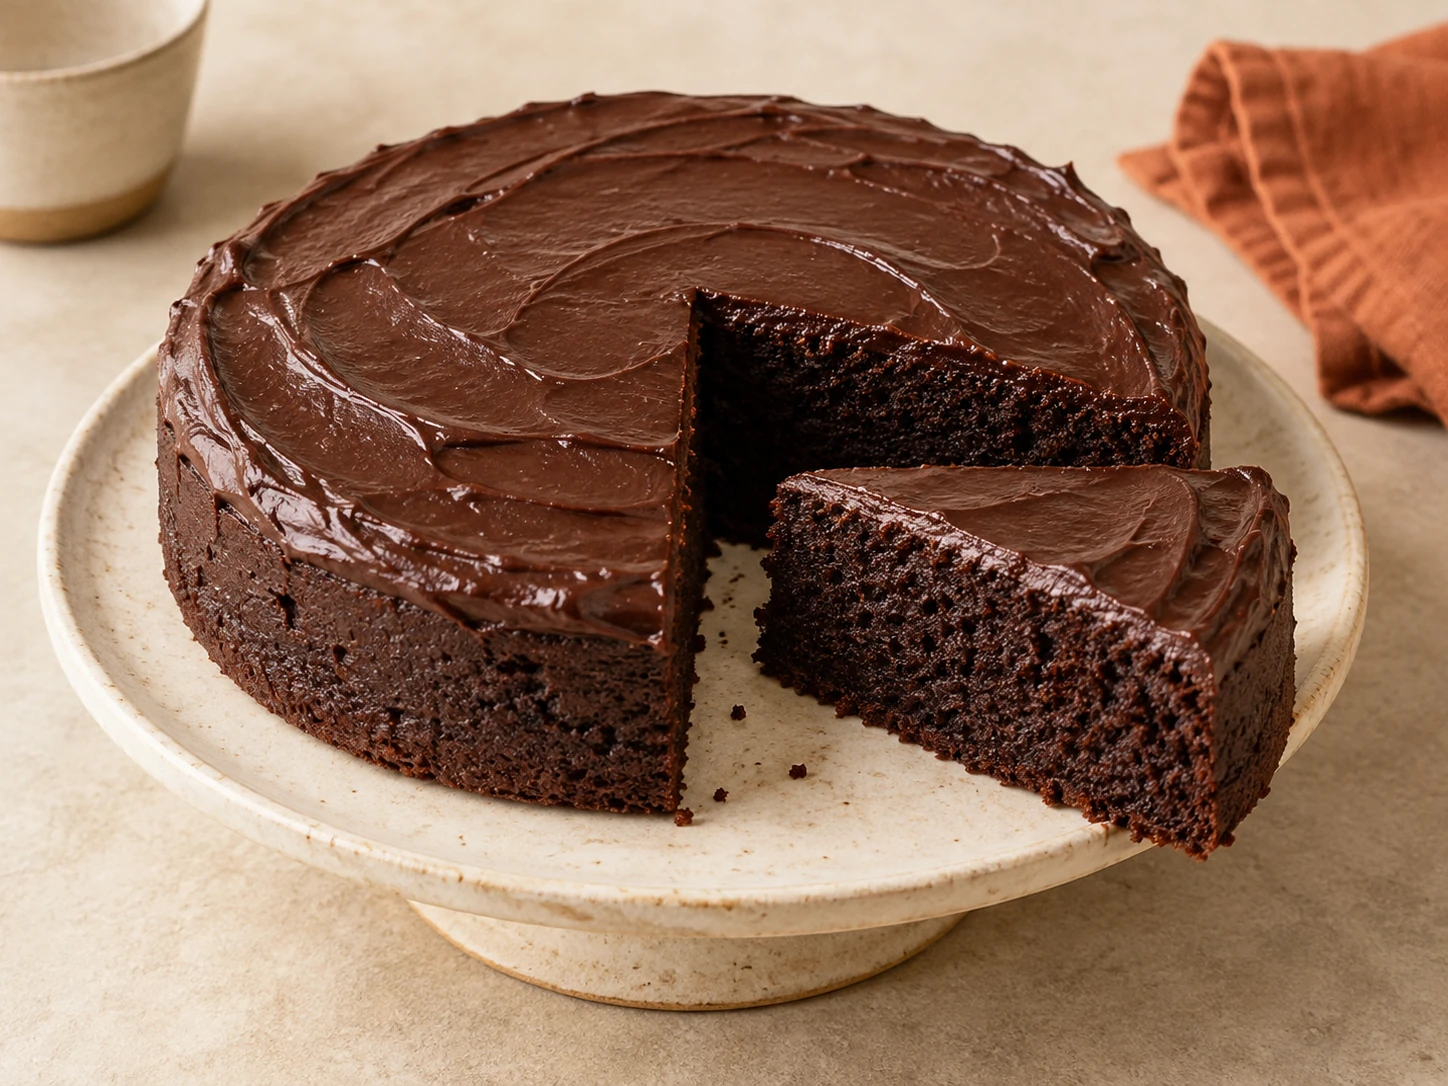
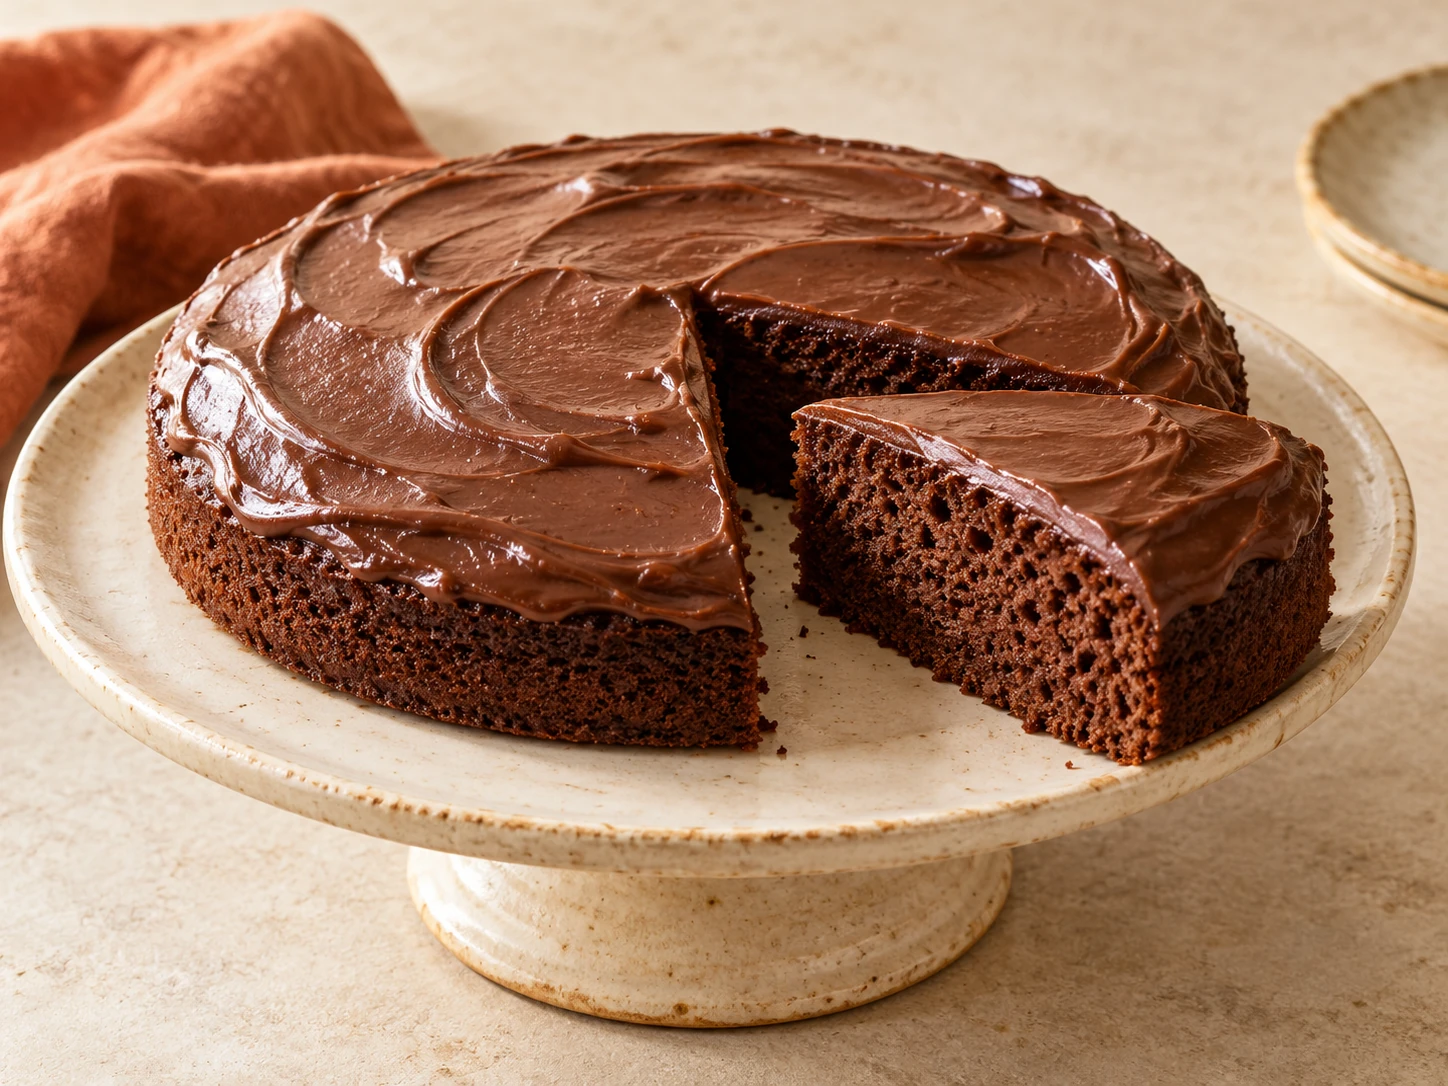
feat: add cookbook recipes and migrate default branch to main

diff --git a/recipes/schokoladenkuchen.md b/recipes/schokoladenkuchen.md
@@ -1,78 +1,46 @@
 ---
-title: Schokoladenkuchen (Take-Home Chocolate Cake)
+title: Schokoladenkuchen mit Icing
 category: kuchen
 image: images/schokoladenkuchen
-imageAlt: Dunkler Schokoladenkuchen mit Schokoladenganache und saftiger Krume
-servings: 12 Portionen
+imageAlt: Schokoladenkuchen mit Schokoladenicing und lockerer dunkler Krume auf einer Keramikplatte
+servings: 12 Stücke (Springform Ø 23 cm)
 tags: [vegetarisch, ofen]
 wip: true
-note: Nach Yotam Ottolenghi und Helen Goh, Sweet.
+note: Nach King Arthur Baking.
 ---
-
-## Tipp
-
-> Statt Mehl und Backpulver können 240 g selbsttreibendes Mehl (Self-raising Flour) verwendet werden. Dann kein zusätzliches Backpulver zugeben.
 
 ## Zutaten
 
 ### Kuchen
 
-- 250 g Butter (weich) (zzgl. etwas für die Form)
-- 200 g Zartbitterschokolade (70 %)
-- 1½ TL Instantkaffee
-- 350 ml Wasser (kochend)
-- 250 g Zucker (fein)
-- 2 Eier (groß, leicht verquirlt)
-- 2 TL Vanilleextrakt
-- 240 g Mehl
-- 3¼ TL Backpulver
-- 30 g Backkakao
-- ¼ TL Salz
+- 180 g Mehl
+- 200 g Zucker
+- 20 g Backkakao
+- ½ TL Salz
+- 1 TL Natron
+- n.B. ½ TL Espressopulver (instant)
+- 225 ml Wasser
+- 65 g Öl (neutral, zzgl. etwas für die Form)
+- 1 EL Apfelessig oder Weißweinessig
+- 1 TL Vanilleextrakt
 
-### Schokoladenganache (optional)
+### Icing
 
-- 200 g Zartbitterschokolade (70 %)
-- 200 ml Schlagsahne
-- 1 EL Golden Syrup (alt. Grafschafter Karamell)
-- 1 EL Butter (weich)
-
-### Espresso-Zimt-Mascarponecreme (optional)
-
-- 375 ml Schlagsahne
-- 190 g Mascarpone
-- ½ Vanilleschote (Mark)
-- 2½ TL Espressopulver (fein gemahlen)
-- ¾ TL Zimt
-- 2½ EL Puderzucker
+- 250 g Zartbitterschokolade (ca. 50–60 %)
+- 110 ml Schlagsahne
 
 ## Zubereitung
 
 ### Kuchen
 
-> Backofen auf 170 °C Ober-/Unterhitze bzw. 150 °C Umluft vorheizen. Eine runde 23-cm-Form fetten und mit Backpapier auslegen.
+> Backofen auf 175 °C Ober-/Unterhitze vorheizen. Eine runde Form mit 23 cm Durchmesser und mindestens 5 cm Höhe leicht einölen.
 >
-> Instantkaffee im kochenden Wasser auflösen. Butter, Schokolade und heißen Kaffee in eine große hitzebeständige Schüssel geben und verrühren, bis alles vollständig geschmolzen und glatt ist.\
-> 250 g feinen Zucker mit einem Schneebesen einrühren, bis er sich weitgehend gelöst hat. Eier und 2 TL Vanilleextrakt zugeben und gründlich unterrühren.
+> Mehl, Zucker, Backkakao, Salz und Natron mischen. N.B. ½ TL Espressopulver zugeben. Wasser, Öl, Essig und Vanilleextrakt in einer zweiten Schüssel verrühren. Zu den trockenen Zutaten geben und kurz zu einem gleichmäßigen Teig verrühren.
 >
-> 240 g Mehl, 3¼ TL Backpulver, 30 g Backkakao und ¼ TL Salz darüber sieben und einarbeiten. Der Teig ist ungewöhnlich flüssig. Das ist normal.
->
-> In die Form geben und etwa 60 Minuten backen. Ein Holzstäbchen soll sauber oder nur mit wenigen trockenen Krümeln herauskommen. Die Oberfläche darf dabei aufreißen und eine Kruste bilden.
->
-> Kuchen 20 Minuten in der Form abkühlen lassen, anschließend herausnehmen und vollständig auskühlen lassen.
+> Teig in die Form geben und 30–35 Minuten backen. Ab 30 Minuten mit einem Holzstäbchen prüfen. Es soll sauber oder mit wenigen feuchten Krümeln herauskommen. In der Form abkühlen lassen.
 
-### Schokoladenganache (optional)
+### Icing
 
-> 200 g Zartbitterschokolade (70 %) sehr fein hacken oder im Mixer mit Schneidemesser zerkleinern.
+> 250 g Zartbitterschokolade fein hacken. Mit 110 ml Schlagsahne in einem kleinen Topf bei niedriger Hitze unter Rühren schmelzen. Vom Herd nehmen, sobald die Mischung glatt ist.
 >
-> Sahne und Golden Syrup erhitzen. Sobald erste Bläschen erscheinen und die Mischung kurz vor dem Kochen steht, vom Herd nehmen.
->
-> Heiße Sahne nach und nach zur Schokolade geben und verrühren beziehungsweise kurz mixen. 1 EL weiche Butter zugeben und weiterarbeiten, bis eine glatte, glänzende Ganache entsteht.\
-> Direkt an der Oberfläche abdecken.
->
-> Für eine dünne, glänzende Glasur die Ganache noch flüssig über den Kuchen geben. Für eine dickere, streichfähige Schicht etwa 2 Stunden bei Raumtemperatur stehen lassen.
-
-### Espresso-Zimt-Mascarponecreme (optional)
-
-> Alle Zutaten mit dem Schneebesen der Küchenmaschine 1–2 Minuten schlagen, bis weiche Spitzen entstehen.
->
-> Kuchen nach Wunsch mit Ganache überziehen und die Mascarponecreme dazu servieren.
+> Icing auf dem abgekühlten Kuchen verteilen. Kurz fest werden lassen, dann anschneiden.

diff --git a/README.md b/README.md
@@ -11,7 +11,7 @@ Haben Sie Rezeptvorschläge, die unbedingt hier aufgenommen werden sollten, send
 
 ## Rezepte
 
-76 Rezepte, jedes als eigene Markdown-Datei in [`recipes/`](recipes).
+79 Rezepte, jedes als eigene Markdown-Datei in [`recipes/`](recipes).
 Diese Übersicht wird beim Build aus den Rezeptdateien erzeugt. Bitte nicht von Hand bearbeiten.
 
 ### Vorspeisen (6)
@@ -23,7 +23,7 @@ Diese Übersicht wird beim Build aus den Rezeptdateien erzeugt. Bitte nicht von 
 - [Rote-Bete-Carpaccio mit Apfel und Walnüssen](recipes/rote-bete-carpaccio.md) _(Ungetestet)_
 - [Thymianpilze auf Zitronenricotta mit brauner Butter](recipes/thymianpilze-auf-zitronenricotta.md) _(Ungetestet)_
 
-### Hauptgerichte (19)
+### Hauptgerichte (20)
 
 - [Bouletten](recipes/bouletten.md)
 - [Bouletten (vegetarisch)](recipes/vegetarische-bouletten.md)
@@ -34,6 +34,7 @@ Diese Übersicht wird beim Build aus den Rezeptdateien erzeugt. Bitte nicht von 
 - [Hähnchen mit karamellisierten Zwiebeln, Kardamom und Reis](recipes/haehnchen-mit-kardamomreis.md) _(Ungetestet)_
 - [Halloumi auf lauwarmem Süßkartoffel-Avocado-Salat](recipes/halloumi-auf-ofengemuese.md)
 - [Jakobsmuscheln mit brauner Kapernbutter auf Spargelrisotto](recipes/jakobsmuscheln-mit-spargelrisotto.md) _(Ungetestet)_
+- [Käsefondue Moitié-Moitié](recipes/kaesefondue-moitie-moitie.md)
 - [Kurz gebeizter Lachs aus der Pfanne](recipes/kurz-gebeizter-lachs.md)
 - [Ochsenbäckchen in Rotweinsauce](recipes/ochsenbaeckchen.md)
 - [Pad Thai](recipes/pad-thai.md)
@@ -45,9 +46,10 @@ Diese Übersicht wird beim Build aus den Rezeptdateien erzeugt. Bitte nicht von 
 - [Wurzeltaler mit Dip](recipes/wurzeltaler.md) _(Ungetestet)_
 - [Zitronenhähnchen mit schneller Salzzitronenpaste](recipes/zitronenhaehnchen.md) _(Ungetestet)_
 
-### Desserts (3)
+### Desserts (4)
 
 - [Cheesecake im Glas](recipes/cheesecake-im-glas.md) _(Ungetestet)_
+- [Himbeertraum](recipes/himbeertraum.md) _(Ungetestet)_
 - [Pavlova-Roulade mit Pfirsichen und Brombeeren](recipes/pavlova-roulade.md) _(Ungetestet)_
 - [Zimt-Pavlova mit Pralinécreme und frischen Feigen](recipes/zimt-pavlova.md) _(Ungetestet)_
 
@@ -65,7 +67,7 @@ Diese Übersicht wird beim Build aus den Rezeptdateien erzeugt. Bitte nicht von 
 
 - [Apfelrotkohl](recipes/rotkohl.md)
 - [Brokkoli (gebraten)](recipes/brokkoli.md)
-- [Butternut-Kürbis mit Chili-Joghurt und Koriandersauce](recipes/butternut-kuerbis-mit-chili-joghurt.md) _(Ungetestet)_
+- [Butternut-Kürbis mit Chili-Joghurt und Koriandersauce](recipes/butternut-kuerbis-mit-chili-joghurt.md)
 - [Karotten](recipes/karotten.md)
 - [Rosenkohl (gebacken)](recipes/rosenkohl.md)
 - [Spitzkohl mit Senfrahm und Butterbröseln](recipes/spitzkohl-mit-senfrahm.md) _(Ungetestet)_
@@ -83,7 +85,7 @@ Diese Übersicht wird beim Build aus den Rezeptdateien erzeugt. Bitte nicht von 
 - [Bohnensalat](recipes/bohnensalat.md)
 - [Farfallesalat (italienisch)](recipes/farfallesalat.md) _(In Arbeit, Ungetestet)_
 
-### Saucen / Dips / Dressings (10)
+### Saucen / Dips / Dressings (11)
 
 - [American Burger Sauce](recipes/american-burger-sauce.md)
 - [Balsamico-Honig-Dressing](recipes/balsamico-honig-dressing.md)
@@ -94,6 +96,7 @@ Diese Übersicht wird beim Build aus den Rezeptdateien erzeugt. Bitte nicht von 
 - [Marinade (Grillfleisch)](recipes/marinade.md)
 - [Mayonnaise](recipes/mayonnaise.md)
 - [Remoulade](recipes/remoulade.md)
+- [Schnelle Bratensauce](recipes/schnelle-bratensauce.md) _(Ungetestet)_
 - [Senfbutter](recipes/senfbutter.md) _(Ungetestet)_
 
 ### Brot / Brötchen (5)
@@ -118,7 +121,7 @@ Diese Übersicht wird beim Build aus den Rezeptdateien erzeugt. Bitte nicht von 
 - [Ovomaltine-Brownies](recipes/ovomaltine-brownies.md) _(Ungetestet)_
 - [Pistazien-Rosen-Grießkuchen](recipes/pistazien-rosen-griesskuchen.md) _(Ungetestet)_
 - [Rohrzuckerkuchen mit Creme und Sumach-Erdbeeren](recipes/brown-sugar-kuchen.md)
-- [Schokoladenkuchen (Take-Home Chocolate Cake)](recipes/schokoladenkuchen.md) _(Ungetestet)_
+- [Schokoladenkuchen mit Icing](recipes/schokoladenkuchen.md) _(Ungetestet)_
 - [Selterswasserkuchen](recipes/selterswasserkuchen.md)
 - [Zitronen-Mohn-Kuchen](recipes/zitronen-mohn-kuchen.md) _(Ungetestet)_
 

diff --git a/recipes/schnelle-bratensauce.md b/recipes/schnelle-bratensauce.md
@@ -1,0 +1,34 @@
+---
+title: Schnelle Bratensauce
+category: saucen
+image: images/schnelle-bratensauce
+imageAlt: Dunkle Bratensauce mit feinen Gemüsewürfeln in einer Keramiksauciere
+servings: 4 Portionen
+tags: [grundrezept]
+wip: true
+note: Nach Wali.
+---
+
+## Zutaten
+
+- 50 g Karotte
+- 50 g Knollensellerie
+- 1 kleine Zwiebel
+- n.B. 30 g Lauch
+- 1 EL Öl (neutral)
+- 150 ml Rotwein (trocken)
+- 300 ml Wasser
+- Bratensaucenpulver (dunkel, für ca. 350 ml Flüssigkeit nach Packungsangabe)
+- Salz, Pfeffer
+
+## Zubereitung
+
+> Karotte, Sellerie und Zwiebel in sehr feine Würfel schneiden (Brunoise, ca. 2 mm). N.B. 30 g Lauch waschen und ebenso fein schneiden.
+>
+> 1 EL Öl erhitzen. Karotte, Sellerie und Zwiebel bei mittlerer Hitze 6–8 Minuten anrösten, bis sie leicht gebräunt sind. Lauch gegebenenfalls die letzten 2 Minuten mitbraten.
+>
+> Mit 150 ml Rotwein ablöschen und den Bratensatz lösen. Auf etwa ein Drittel einkochen lassen.
+>
+> 300 ml Wasser angießen und etwa 5 Minuten köcheln lassen, bis das Gemüse weich ist. Bratensaucenpulver nach Packungsangabe einrühren und die dort angegebene Zeit kochen lassen, bis die Sauce sämig ist. Die Gemüsewürfel in der Sauce lassen.
+>
+> Mit Pfeffer und bei Bedarf Salz abschmecken. Ist die Sauce zu dick, etwas Wasser zugeben.

diff --git a/recipes/kaesefondue-moitie-moitie.md b/recipes/kaesefondue-moitie-moitie.md
@@ -1,0 +1,32 @@
+---
+title: Käsefondue Moitié-Moitié
+category: hauptgerichte
+image: images/kaesefondue-moitie-moitie
+imageAlt: Cremiges Käsefondue Moitié-Moitié in einem Keramikcaquelon mit Brotwürfeln
+servings: 1 Portion
+tags: []
+note: Nach Vacherin Fribourgeois AOP.
+---
+
+## Zutaten
+
+- 100 g Gruyère
+- 100 g Vacherin Fribourgeois (alternativ junger Appenzeller oder Tilsiter)
+- 75 ml Weißwein (trocken)
+- ¾ TL Speisestärke
+- 1 Knoblauchzehe (halbiert)
+- n.B. ½ TL Senf
+- 1 guter Schluck Kirsch
+- Pfeffer
+- 150–200 g Halbweißbrot
+
+## Zubereitung
+
+> Käse reiben. Das Caquelon mit der halbierten Knoblauchzehe ausreiben. Brot in 2–3 cm große Würfel schneiden.
+>
+> 75 ml Weißwein mit ¾ TL Speisestärke im kalten Caquelon glatt rühren. Unter Rühren aufkochen.
+>
+> 100 g Gruyère und 100 g Vacherin Fribourgeois zugeben. Bei niedriger Hitze unter ständigem Rühren schmelzen, bis das Fondue glatt und cremig ist. N.B. ½ TL Senf einrühren.
+>
+> Mit einem guten Schluck Kirsch und Pfeffer abschmecken. Vor dem Aufkochen auf das Rechaud stellen und bei kleiner Flamme warm halten.\
+> Brotwürfel eintauchen und dabei regelmäßig bis zum Topfboden rühren, damit das Fondue nicht ansetzt.

diff --git a/recipes/himbeertraum.md b/recipes/himbeertraum.md
@@ -1,0 +1,27 @@
+---
+title: Himbeertraum
+category: desserts
+image: images/himbeertraum
+imageAlt: Himbeertraum im Glas mit Quark-Sahne-Creme, Himbeeren und groben Meringuestücken
+servings: 6 Portionen
+tags: [vegetarisch]
+wip: true
+note: Nach essen & trinken.
+---
+
+## Zutaten
+
+- 600 g Himbeeren (frisch oder tiefgekühlt)
+- 150 g Meringues (fertig gekauft)
+- 400 g Schlagsahne (kalt)
+- 400 g Magerquark
+- 1 Pck. Vanillezucker
+- n.B. Pistazien (gehackt)
+
+## Zubereitung
+
+> Frische Himbeeren verlesen. Tiefgekühlte Himbeeren auftauen und in einem Sieb abtropfen lassen. Einige Beeren zum Garnieren beiseitestellen. Meringues grob zerbröseln.
+>
+> 400 g Schlagsahne steif schlagen. Quark mit Vanillezucker glatt rühren. Geschlagene Sahne vorsichtig unterheben.
+>
+> Kurz vor dem Servieren Creme, Meringuestücke und Himbeeren abwechselnd in sechs Gläser schichten. Mit Creme abschließen. Mit den beiseitegestellten Himbeeren, einigen Meringuestücken und n.B. gehackten Pistazien garnieren. Direkt servieren, damit die Meringues knusprig bleiben.

diff --git a/docs/README.md b/docs/README.md
@@ -32,7 +32,7 @@ When asked to add a recipe, complete the whole workflow:
   a remote branch runs nothing.
 
 Use `git commit --no-verify` or `git push --no-verify` only when a check is knowingly wrong; CI still runs the full
-gate on the pull request and on `master`.
+gate on the pull request and on `main`.
 
 ```md
 ---

diff --git a/recipes/butternut-kuerbis-mit-chili-joghurt.md b/recipes/butternut-kuerbis-mit-chili-joghurt.md
@@ -6,7 +6,6 @@ image: images/butternut-kuerbis-mit-chili-joghurt
 imageAlt: Geröstete Butternut-Kürbisspalten mit Chili-Joghurt, Koriandersauce und Kürbiskernen
 servings: 4 Portionen
 tags: [vegetarisch, ofen]
-wip: true
 note: Nach Yotam Ottolenghi, Plenty More.
 ---
 
